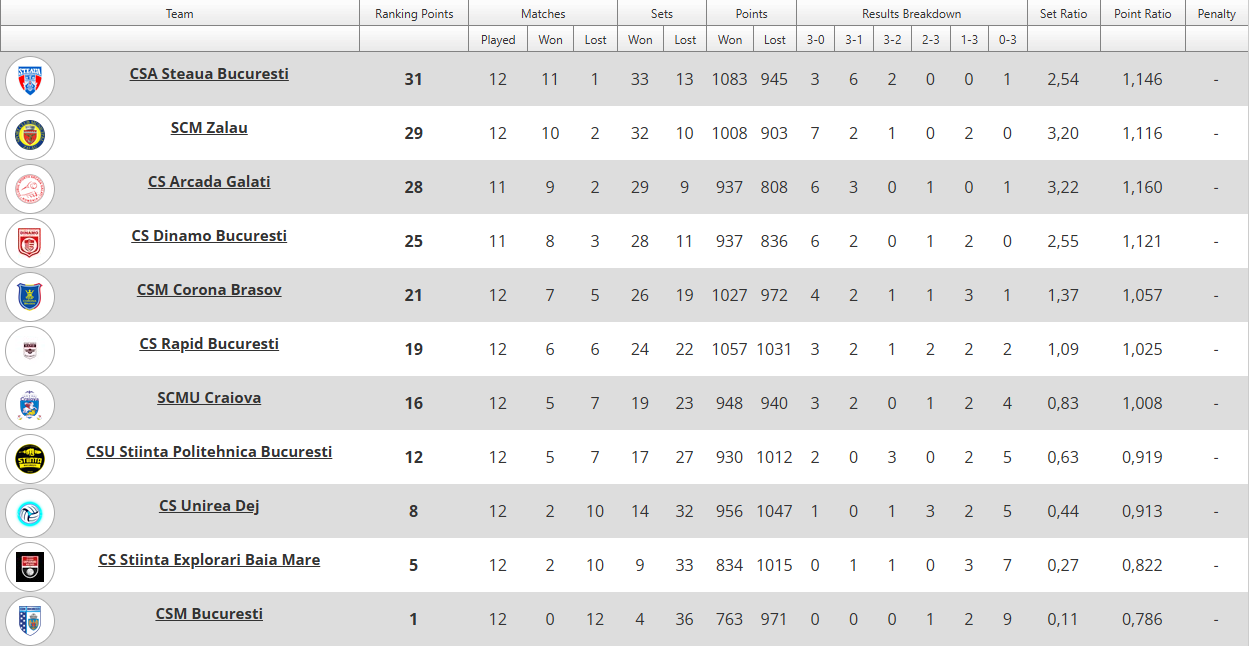
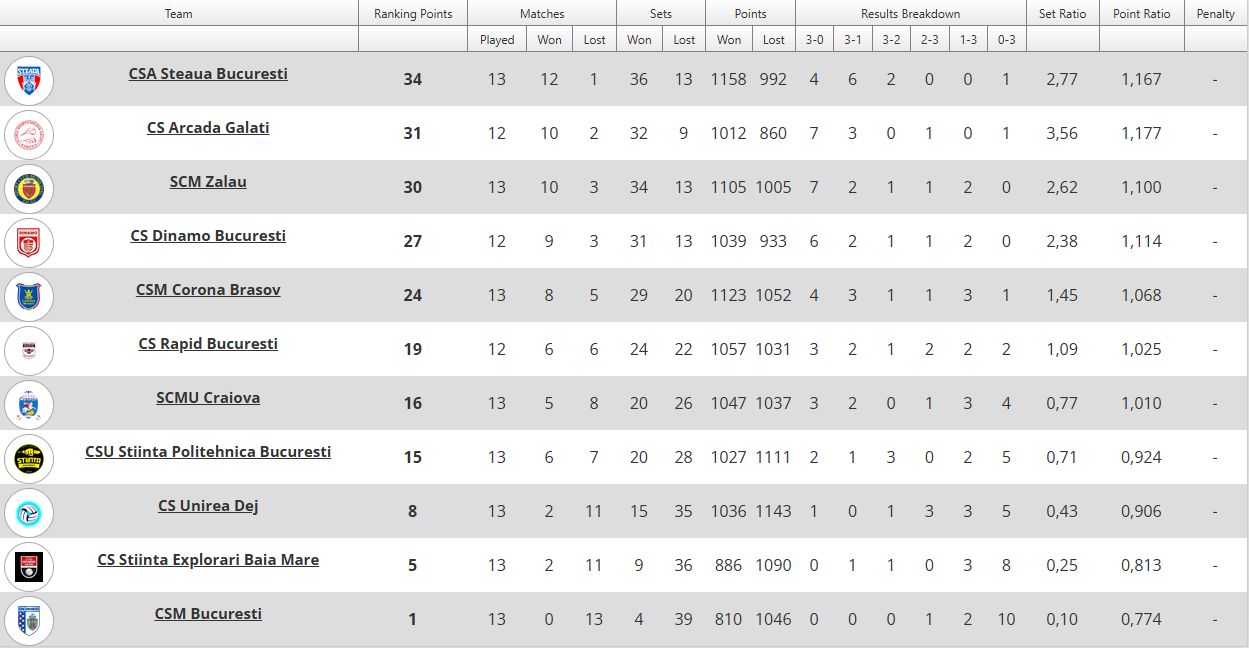
photos, players added

diff --git a/frontend/react-scm-zalau-volei/src/components/ContactPage/ContactPage.tsx b/frontend/react-scm-zalau-volei/src/components/ContactPage/ContactPage.tsx
@@ -22,7 +22,6 @@ export const ContactPage = () => {
               </div>
               <h3 className="contact-label">Telefonic</h3>
               <p className="contact-text mb-2">
-                Ai întrebări urgente? Apelează-ne cu încredere.
               </p>
               <p className="contact-text fw-bold fs-5">
                 <a href="tel:0745637050">0745 637 050</a>
@@ -37,7 +36,6 @@ export const ContactPage = () => {
               </div>
               <h3 className="contact-label">Email</h3>
               <p className="contact-text mb-2">
-                Pentru propuneri de sponsorizare sau alte detalii.
               </p>
               <p className="contact-text">
                 <a href="mailto:volei.scmzalau@gmail.com">volei.scmzalau@gmail.com</a>

diff --git a/frontend/react-scm-zalau-volei/src/components/Footer.tsx b/frontend/react-scm-zalau-volei/src/components/Footer.tsx
@@ -77,7 +77,7 @@ export const Footer = () => {
         </div>
 
         <div className="footer-bottom text-center mt-5 pt-4">
-          <p className="mb-0 small text-muted">
+          <p className="mb-0 small text-white-50">
             &copy; {new Date().getFullYear()} SCM Zalău Volei. Toate drepturile
             rezervate.
           </p>

diff --git a/backend/scmzalauvoleiBE/src/main/java/scmzalauvolei/scmzalauvoleiBE/config/WebConfig.java b/backend/scmzalauvoleiBE/src/main/java/scmzalauvolei/scmzalauvoleiBE/config/WebConfig.java
@@ -16,7 +16,7 @@ public class WebConfig {
                 registry.addMapping("/**")
                         .allowedOrigins(
                                 "http://localhost:3000",
-                                "https://scmzalauvolei.ro",
+                                "https://scmzalau-volei.ro",
                                 "https://scm-zalau-frontend.vercel.app"
                         )
                         .allowedMethods("GET", "POST", "PUT", "DELETE", "OPTIONS");
